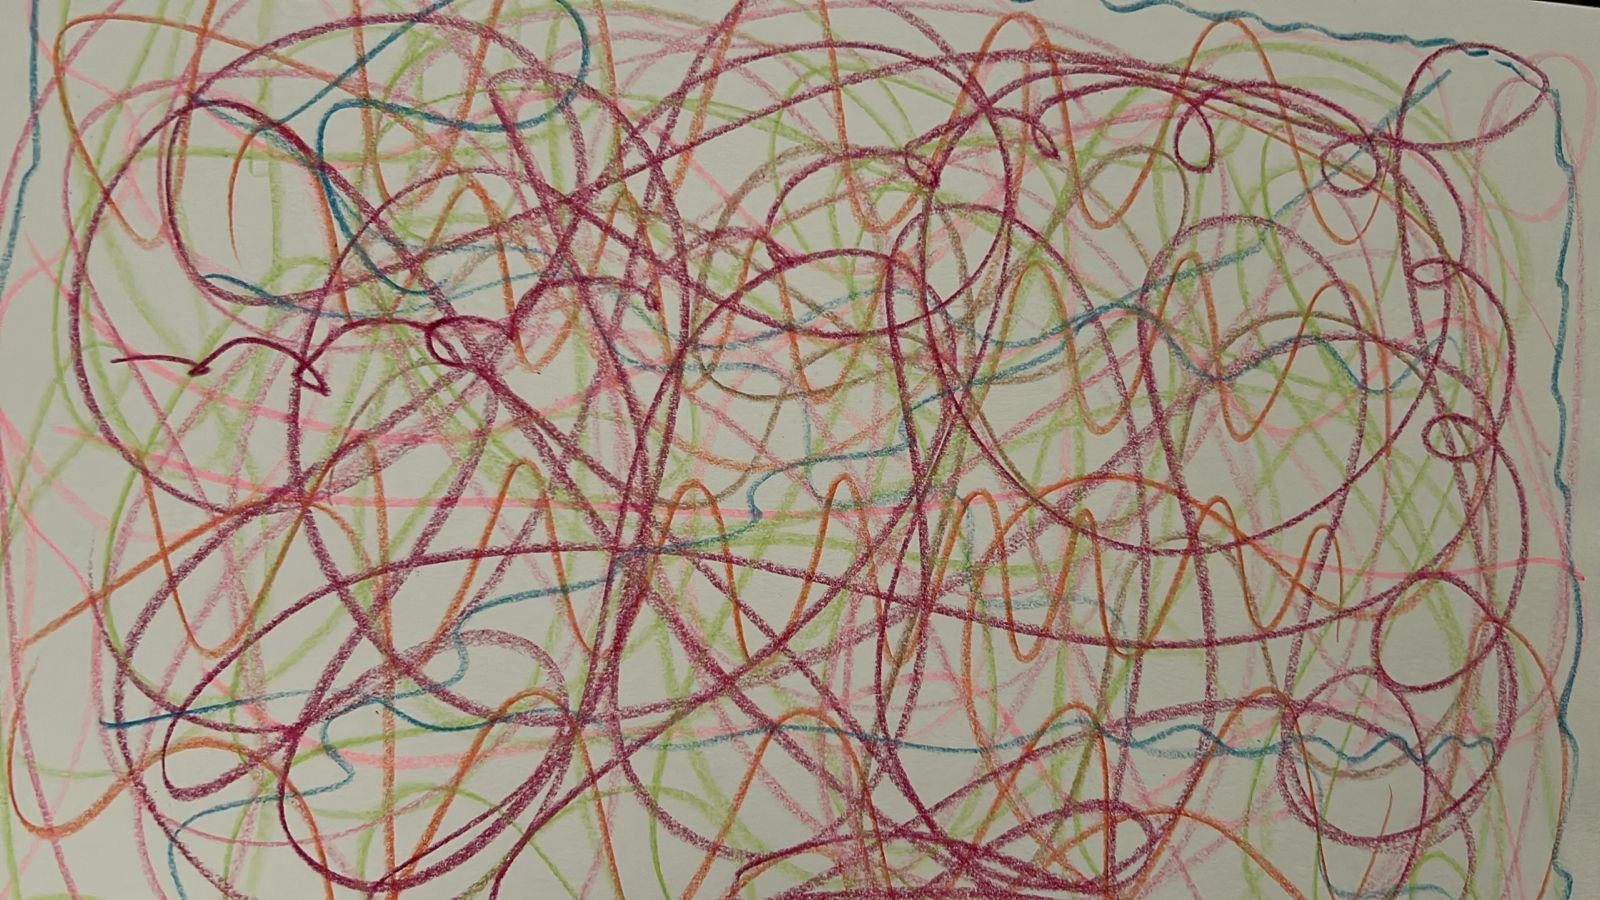
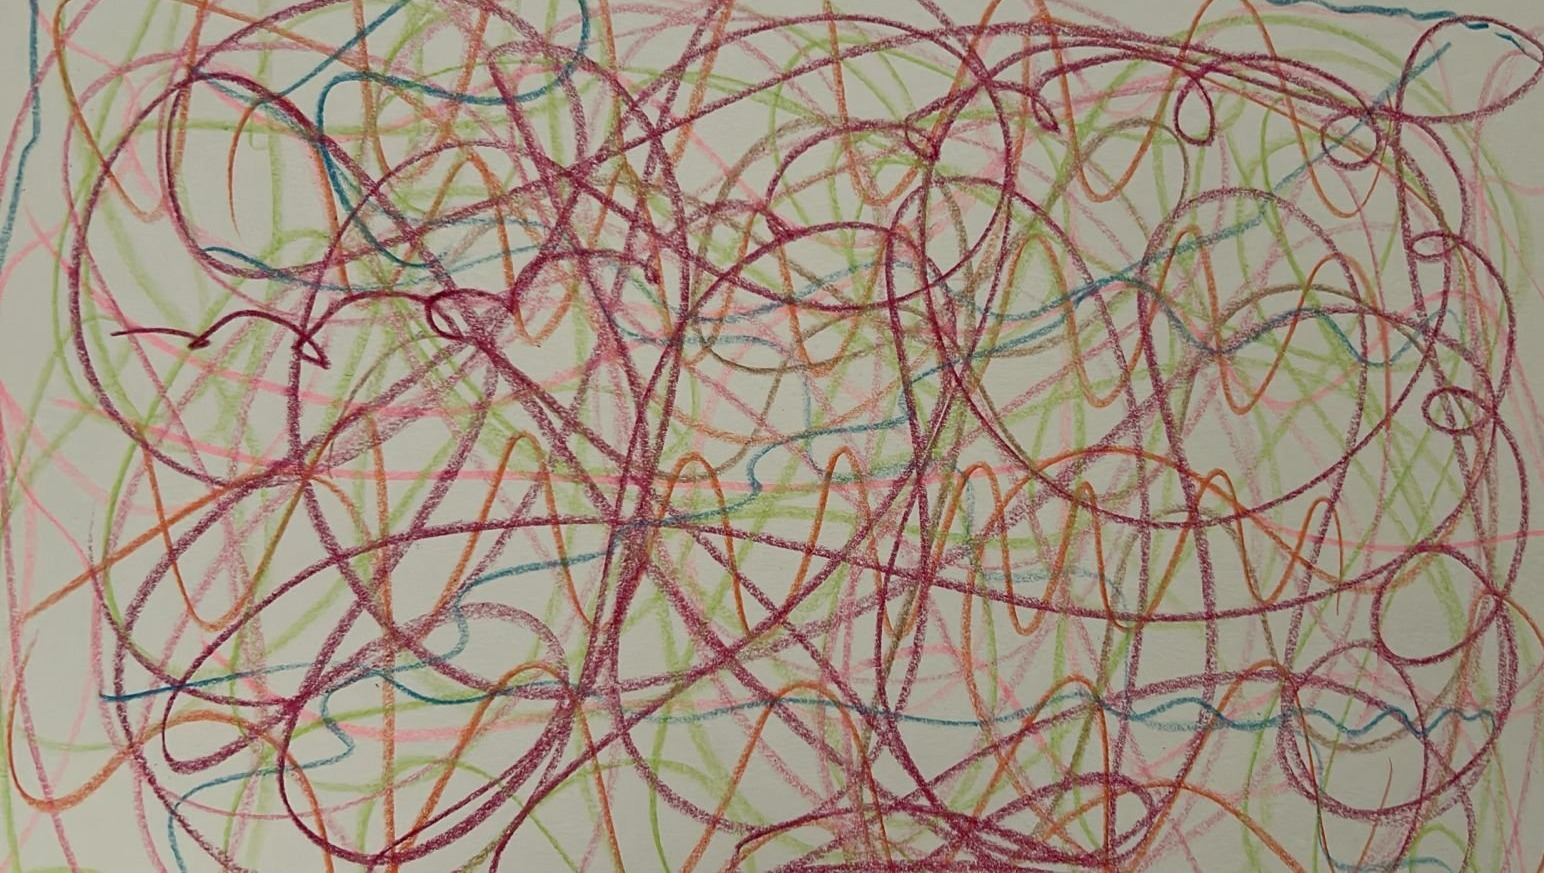
Carol: ajustes de copy de Carolina, mueve la mirada al final de Paulina, corrige bordes en fotos enmarcadas
Copy: tesis ("el arte actua como una mediacion... aquello que quiere
comunicar"), mujeres en crisis en negrita en el mapa, nueva descripcion
del panel de ninos (comunidades alrededor del basurero, vulnerabilidad
social), cita de Buber en italica en el panel de parejas, edad de Paulina
19 anos, eyebrow/subtitulo de sensacion sentida ("el proceso"), quita
guillemets de "un nudo en la garganta", quita "las dos estan bien" en
Hoy, "lenguaje de creatividad" en el cierre.

Estructura: "la mirada" (un que / un quien) se mueve del inicio del caso
Paulina al final, justo antes de la diapositiva de cierre - cierra la
historia con la reflexion filosofica en vez de abrirla.

Fotos: img2/img3 recortadas (fondo negro y puerta/piso visibles detras
del papel en "un nudo en la garganta"); img4/img5 recortadas mas cerca
del dibujo (tambien sirve para que "como me siento hoy" se vea mas
grande, con flex-basis y max-height propios en esa slide). Collage:
gap:0 para que no quede borde teal visible entre imagenes al terminar
el zoom out.

diff --git a/congreso-personalista/Carol/index.html b/congreso-personalista/Carol/index.html
@@ -77,6 +77,7 @@
     .ambito-panel .bcap .title{ color:var(--cream); }
     .ambito-panel .bcap .body{ color:var(--sand); }
     .ambito-panel .bcap .eyebrow{ color:var(--terra-soft); }
+    .ambito-panel .bcap .src{ color:#B8AC96; }
 
     /* Portada: una obra a sangre, texto protegido a la izquierda */
     .cover-img{ position:absolute; inset:0; z-index:1; }
@@ -89,8 +90,8 @@
        sistema .bleed para que quede en la misma familia visual. Filas flex
        (no grid-span) = cero riesgo de huecos; cada fila reparte sus imagenes
        por flex-grow segun orientacion (retrato angosto, paisaje ancho). */
-    .collage{ position:absolute; inset:0; overflow:hidden; z-index:1; display:flex; flex-direction:column; gap:3px; background:#0A1C24; }
-    .collage .crow{ display:flex; gap:3px; min-height:0; }
+    .collage{ position:absolute; inset:0; overflow:hidden; z-index:1; display:flex; flex-direction:column; gap:0; background:#0A1C24; }
+    .collage .crow{ display:flex; gap:0; min-height:0; }
     .collage .crow img{ height:100%; width:100%; object-fit:cover; display:block; }
     .collage .crow img.p{ flex:1; }
     .collage .crow img.l{ flex:1.85; }
@@ -207,8 +208,8 @@
       <div class="ghost" style="top:8%;left:-2%;font-size:22rem;color:var(--sand);">ARTE</div>
       <div class="stage mid">
         <p class="eyebrow">La tesis</p>
-        <h2 class="title xl">El arte es<br>una <span class="accent">mediación</span>.</h2>
-        <p class="body" style="max-width:40ch;">Entre el mundo interior de la persona y el lenguaje en que ese mundo puede pensarse, comunicarse y transformarse.</p>
+        <h2 class="title xl">El arte actúa<br>como una <span class="accent">mediación</span>.</h2>
+        <p class="body" style="max-width:40ch;">Entre el mundo interior de la persona y aquello que quiere comunicar.</p>
       </div>
       <img class="logo" src="../logos/4meaning-sand.png" alt="4Meaning">
     </section>
@@ -253,7 +254,7 @@
         <div class="cols">
           <div class="col"><div class="k">Valores creativos</div><div class="v">Niños</div><div class="d">En zonas de riesgo. Dar algo de sí al mundo.</div></div>
           <div class="col"><div class="k">Valores vivenciales</div><div class="v">Parejas</div><div class="d">El encuentro, el amor, el reconocimiento mutuo.</div></div>
-          <div class="col on"><div class="k">Valores de actitud</div><div class="v">Mujeres en crisis</div><div class="d">Reconstruir desde dentro cuando la realidad no cambia. Hoy: Paulina.</div></div>
+          <div class="col on"><div class="k">Valores de actitud</div><div class="v" style="font-weight:900;">Mujeres en crisis</div><div class="d">Reconstruir desde dentro cuando la realidad no cambia. Hoy: Paulina.</div></div>
         </div>
       </div>
 
@@ -266,7 +267,7 @@
         <div class="bcap">
           <p class="eyebrow">Valores creativos &middot; niños en zonas de riesgo</p>
           <h2 class="title lg">Un respiro.<br>Un <span class="accent">cambio</span>.</h2>
-          <p class="body">Viven en alerta, entre el basurero, la calle y la violencia. El arte les abre un espacio propio para respirar tranquilos y empezar a cambiar su historia.</p>
+          <p class="body">Viven en comunidades alrededor del basurero, en condiciones de vulnerabilidad social y violencia. El arte les abre un espacio propio para transformar su historia.</p>
         </div>
       </div>
 
@@ -280,6 +281,7 @@
           <p class="eyebrow">Valores vivenciales &middot; parejas</p>
           <h2 class="title lg">El encuentro<br>que dignifica.</h2>
           <p class="body">En Trascendencia, las parejas vuelven a su primera mirada: me reconozco en el tú como condición del yo.</p>
+          <p class="body" style="font-style:italic; margin-top:1rem;">«El ser humano se constituye como persona en relación con el otro.» <span class="src">Martín Buber</span></p>
         </div>
       </div>
 
@@ -292,24 +294,12 @@
         <div class="bcap">
           <p class="eyebrow">Valores de actitud &middot; mujer en crisis</p>
           <h2 class="title lg">Paulina.</h2>
-          <p class="body">Diecisiete años, embarazada, sin ningún tipo de apoyo, sin trabajo. Reconstruir desde dentro cuando la realidad no cambia.</p>
+          <p class="body">Diecinueve años, embarazada y sin ningún tipo de trabajo. Reconstruir desde dentro cuando la realidad no cambia.</p>
         </div>
       </div>
     </section>
 
-    <!-- 06 · LA MIRADA -->
-    <section data-background-color="#0F2832" class="dark">
-      <div class="grain"></div>
-      <div class="ghost" style="top:9%;right:-4%;font-size:14rem;color:var(--sand);">PERSONA</div>
-      <div class="stage">
-        <p class="eyebrow">La mirada</p>
-        <h2 class="title lg">Un <span class="accent">qué</span>.<br>O un <span class="accent">quién</span>.</h2>
-        <p class="body">Su dignidad no se perdió con la situación: es un dato ontológico, no un atributo social. Solo necesitaba reconocerla. El arte fue el lenguaje que se lo permitió.</p>
-      </div>
-      <img class="logo" src="../logos/4meaning-sand.png" alt="4Meaning">
-    </section>
-
-    <!-- 06b · EL SILENCIO (punto de partida) -->
+    <!-- 06 · EL SILENCIO (punto de partida) -->
     <section data-background-color="#0A1C24" class="dark">
       <div class="grain"></div>
       <div class="ghost" style="top:19%;left:-1%;font-size:18rem;color:var(--sand);">SILENCIO</div>
@@ -363,9 +353,9 @@
       </div>
       <div class="grain"></div>
       <div class="stage mid">
-        <p class="eyebrow">El método</p>
+        <p class="eyebrow">El proceso</p>
         <h2 class="title lg">La sensación<br>sentida.</h2>
-        <p class="body">Trabajamos las tres dimensiones: mente, cuerpo y espíritu. Lo que se siente al escuchar lo que el cuerpo revela.</p>
+        <p class="body">Es lo que surge al entrar en contacto con su interior, representado en color, forma, imagen o frase.</p>
       </div>
       <img class="logo" src="../logos/4meaning-sand.png" alt="4Meaning">
     </section>
@@ -376,7 +366,7 @@
       <div class="framed rev">
         <div class="pic"><img src="imagenes/img3.jpg" alt="Nudo con lágrimas"></div>
         <div class="txt">
-          <h2 class="title sm">«Un nudo<br>en la garganta.»</h2>
+          <h2 class="title sm">Un nudo<br>en la garganta.</h2>
           <p class="body">No nace de la mente, sino del diálogo entre lo que siente el cuerpo y el arte.</p>
         </div>
       </div>
@@ -387,7 +377,7 @@
     <section data-background-color="#0F2832" class="dark">
       <div class="grain"></div>
       <div class="framed">
-        <div class="pic"><img src="imagenes/img4.jpg" alt="Corazón apretado"></div>
+        <div class="pic" style="flex-basis:60%;"><img src="imagenes/img4.jpg" alt="Corazón apretado" style="max-height:88vh;"></div>
         <div class="txt">
           <p class="eyebrow">El cambio de sentido</p>
           <h2 class="title sm">«¿Cómo me<br>siento hoy?»</h2>
@@ -446,13 +436,25 @@
       <div class="grain"></div>
       <div class="bcap">
         <h2 class="title lg">Hoy.</h2>
-        <p class="body">Camila, su hija, tiene dos años y es hoy su principal sentido de vida. Las dos están bien.</p>
+        <p class="body">Camila, su hija, tiene dos años y es hoy su principal sentido de vida.</p>
       </div>
       <img class="logo" src="../logos/4meaning-sand.png" alt="4Meaning">
     </section>
 
 
-    <!-- 16 · LA TESIS (cierre, collage de obras) -->
+    <!-- 16 · LA MIRADA -->
+    <section data-background-color="#0F2832" class="dark">
+      <div class="grain"></div>
+      <div class="ghost" style="top:9%;right:-4%;font-size:14rem;color:var(--sand);">PERSONA</div>
+      <div class="stage">
+        <p class="eyebrow">La mirada</p>
+        <h2 class="title lg">Un <span class="accent">qué</span>.<br>O un <span class="accent">quién</span>.</h2>
+        <p class="body">Su dignidad no se perdió con la situación: es un dato ontológico, no un atributo social. Solo necesitaba reconocerla. El arte fue el lenguaje que se lo permitió.</p>
+      </div>
+      <img class="logo" src="../logos/4meaning-sand.png" alt="4Meaning">
+    </section>
+
+    <!-- 17 · LA TESIS (cierre, collage de obras) -->
     <section data-background-color="#0A1C24" class="dark">
       <div class="collage" style="background:#0A1C24;">
         <div class="crow" style="flex:1.4;">
@@ -474,12 +476,12 @@
       <div class="stage mid">
         <p class="eyebrow">El cierre</p>
         <h2 class="title xl">El arte llega donde<br>la <span class="accent">palabra</span> no llega.</h2>
-        <p class="body" style="max-width:44ch;">No es un recurso técnico añadido. Es traducir una antropología verdadera al lenguaje del arte, para que la persona encuentre en su propia obra lo que de otro modo le costaría reconocer en sí misma.</p>
+        <p class="body" style="max-width:44ch;">No es un recurso técnico añadido. Es traducir una antropología verdadera al lenguaje de creatividad, para que la persona encuentre en su propia obra lo que de otro modo le costaría reconocer en sí misma.</p>
       </div>
       <img class="logo" src="../logos/4meaning-sand.png" alt="4Meaning">
     </section>
 
-    <!-- 17 · CIERRE -->
+    <!-- 18 · CIERRE -->
     <section data-background-color="#FDFBF7">
       <div class="cover">
         <div class="grain"></div>
